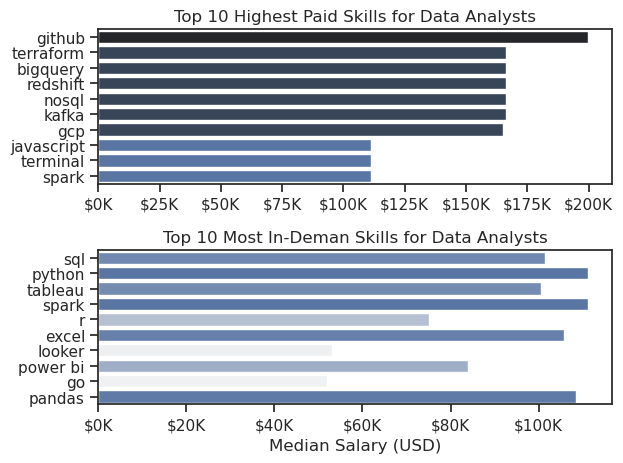
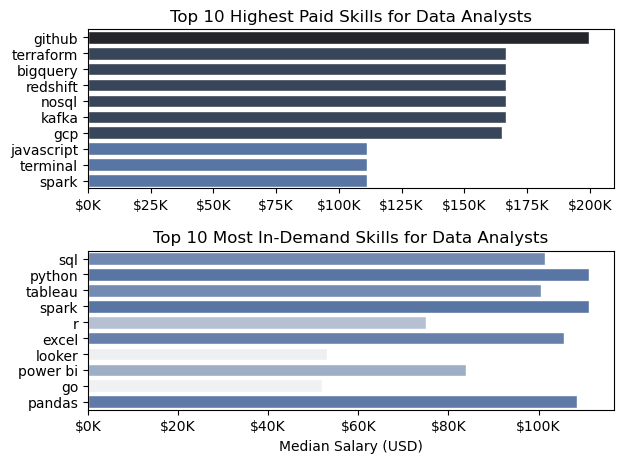
Fix spelling mistakes

Changed region(s): [[0.0305, 0.4838, 1.0, 0.9978], [0.0, 0.0, 1.0, 0.4536]]

diff --git a/README.md b/README.md
@@ -248,7 +248,7 @@ sns.barplot(
   ax=ax[1],
   legend=False
 )
-ax[1].set_title("Top 10 Most In-Deman Skills for Data Analysts")
+ax[1].set_title("Top 10 Most In-Demand Skills for Data Analysts")
 ax[1].set_ylabel("")
 ax[1].set_xlabel("Median Salary (USD)")
 ax[1].xaxis.set_major_formatter(plt.FuncFormatter(lambda val, _: f"${int(val/1000)}K"))
@@ -268,9 +268,9 @@ _Two separate bar graphs visualizing the highest paid skills and most in-demand 
 
 #### Insights:
 
-- The top graph shows specialized technical skills like `dplyr`, `Bitbucket`, and `Gitlab` are associated with higher salaries, some reaching up to $200K, suggesting that advanced technical proficiency can increase earning potential.
+- The top graph shows specialized technical skills like `Github`, `Terraform`, and `Bigquery` are associated with higher salaries, some reaching up to $200K, suggesting that advanced technical proficiency can increase earning potential.
 
-- The bottom graph highlights that foundational skills like `Excel`, `PowerPoint`, and `SQL` are the most in-demand, even though they may not offer the highest salaries. This demonstrates the importance of these core skills for employability in data analysis roles.
+- The bottom graph highlights that foundational skills like `SQL`, `Python`, and `Tableau` are the most in-demand, even though they may not offer the highest salaries. This demonstrates the importance of these core skills for employability in data analysis roles.
 
 - There's a clear distinction between the skills that are highest paid and those that are most in-demand. Data analysts aiming to maximize their career potential should consider developing a diverse skill set that includes both high-paying specialized skills and widely demanded foundational skills.
 
